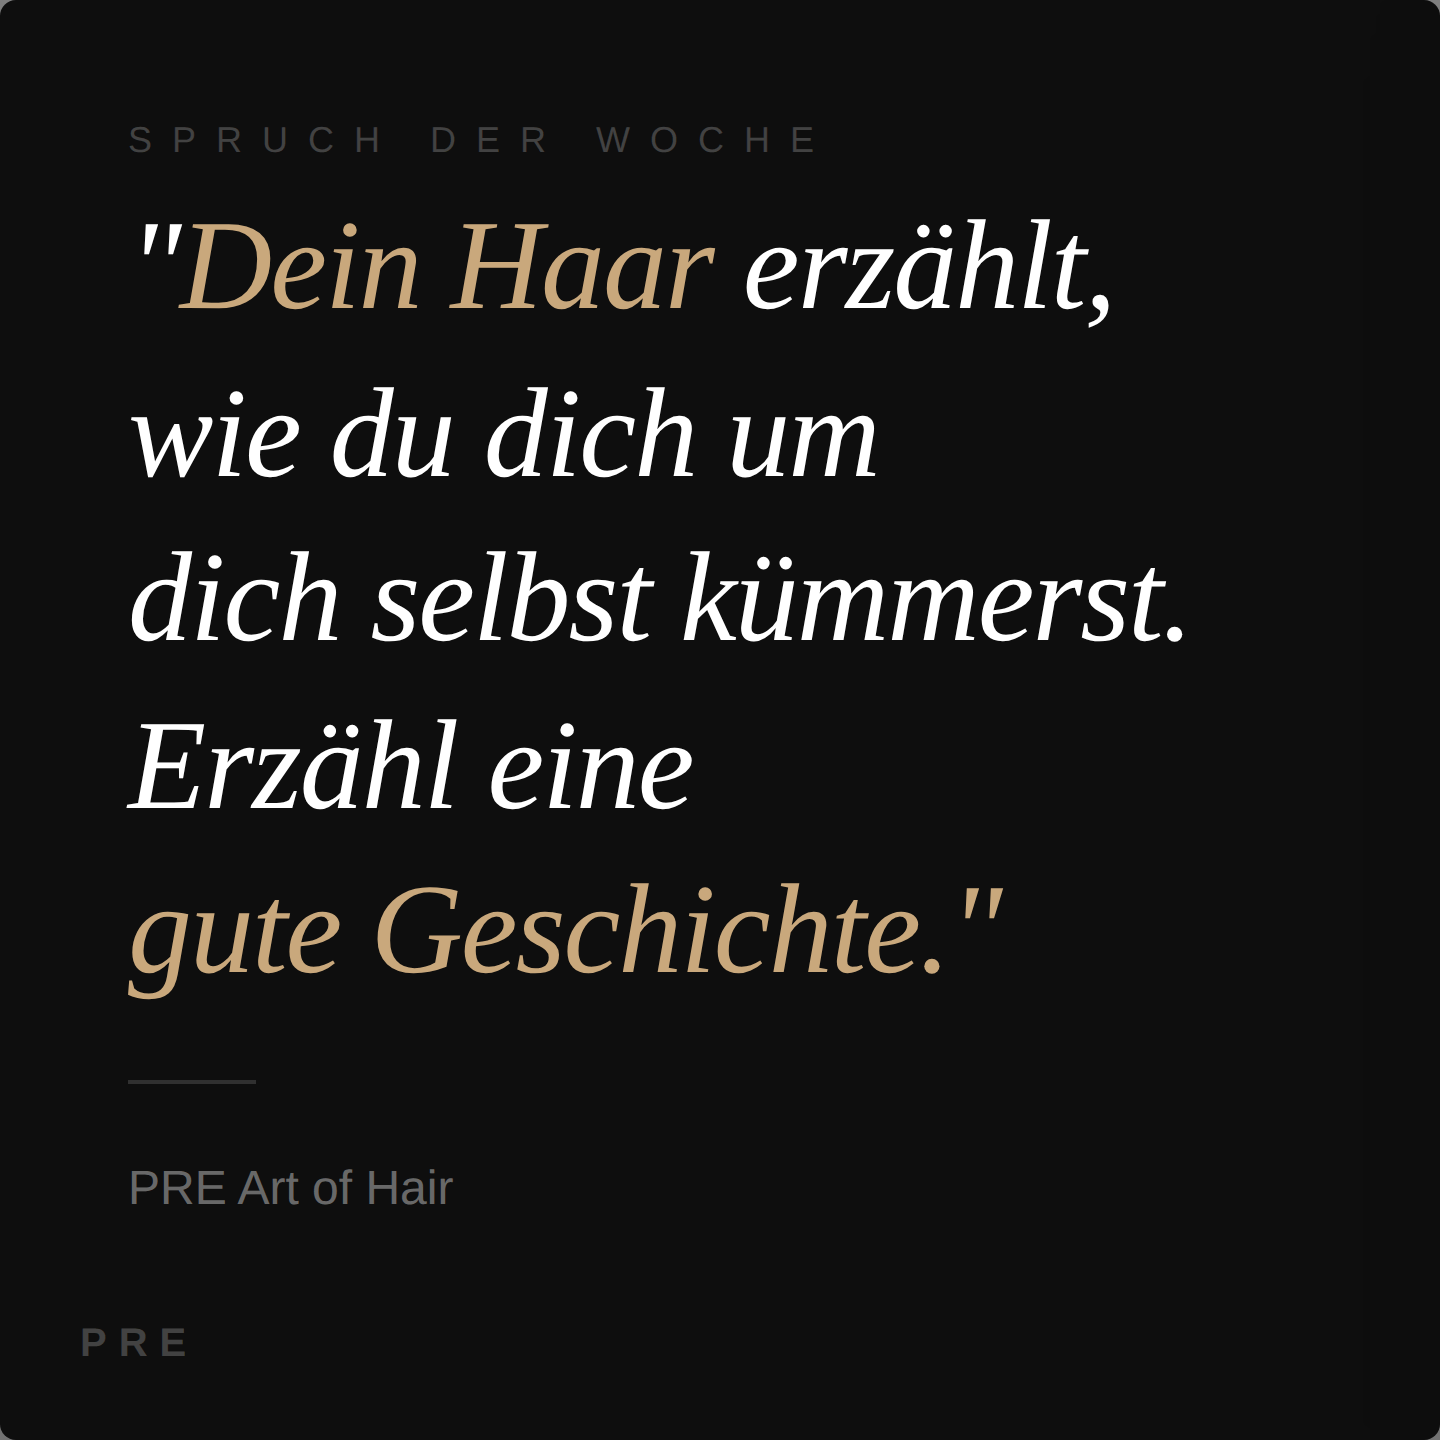
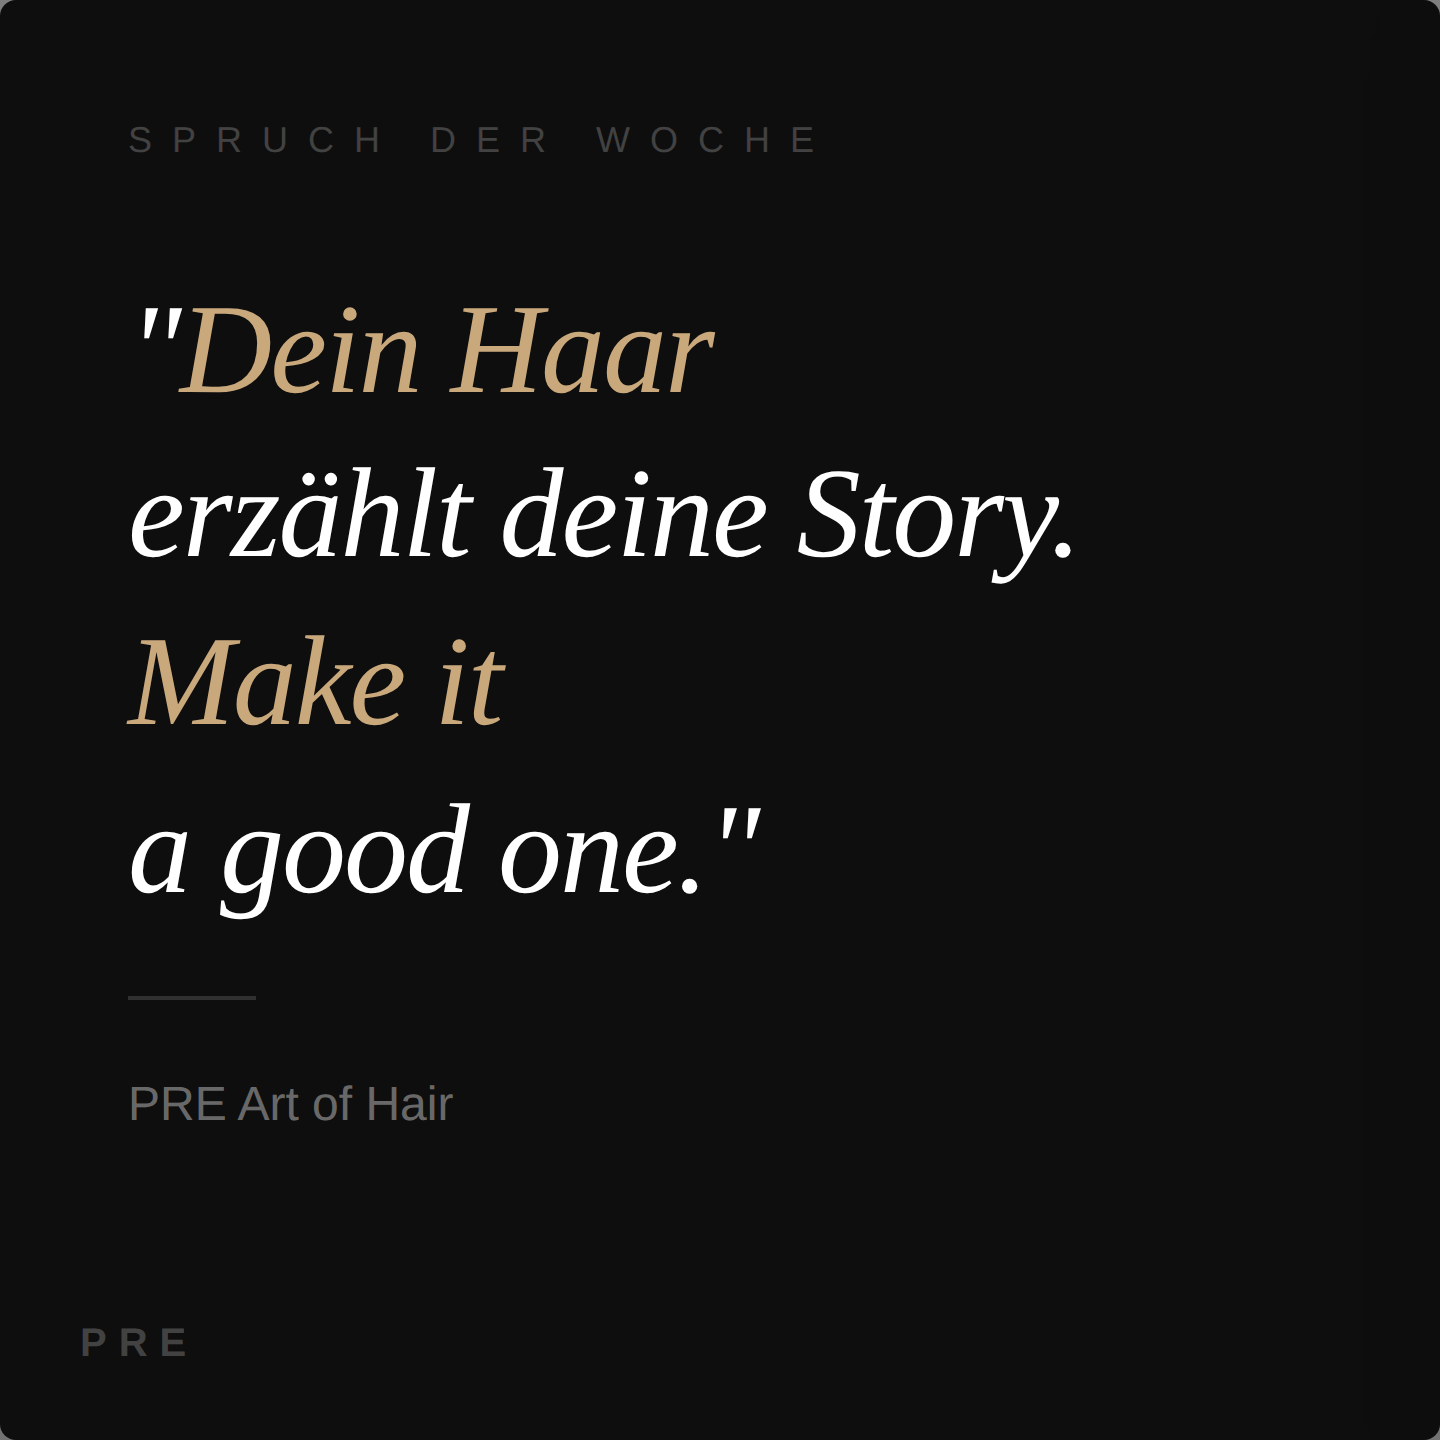
Fix KW32 slide 2 quote: bilingual German/English version
Claude-Session: https://claude.ai/code/session_01BaC8m9wAmbtKccXQSCmnYc

diff --git a/carousel-weekly-update-kw32.html b/carousel-weekly-update-kw32.html
@@ -89,11 +89,10 @@
     <div class="kw">Spruch der Woche</div>
     <div class="quote-center">
       <div class="quote-text">
-        "<span class="c">Dein Haar</span> erzählt,<br>
-        wie du dich um<br>
-        dich selbst kümmerst.<br>
-        Erzähl eine<br>
-        <span class="c">gute Geschichte."</span>
+        "<span class="c">Dein Haar</span><br>
+        erzählt deine Story.<br>
+        <span class="c">Make it</span><br>
+        a good one."
       </div>
       <div class="rule"></div>
       <div class="body">PRE Art of Hair</div>
